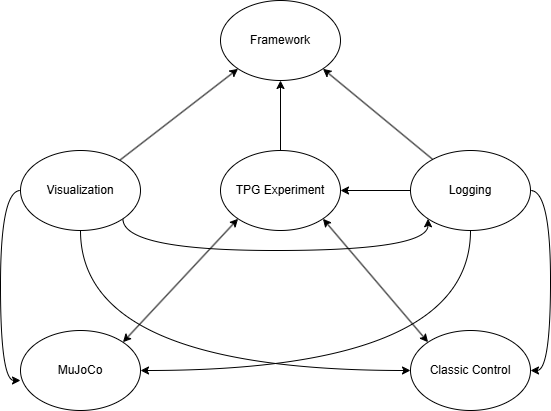
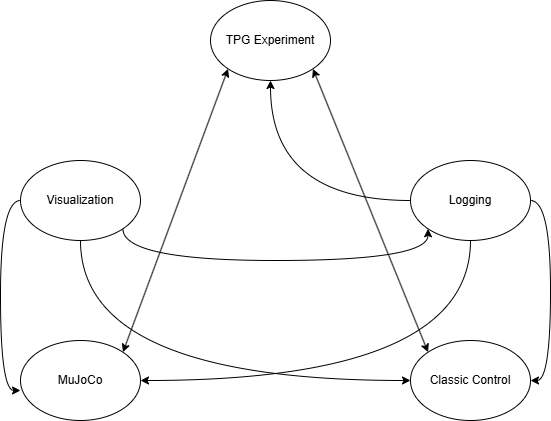
updated requirements trace matrix and use hiearchy diagram to remove framework module

diff --git a/docs/Design/SoftArchitecture/MG.tex b/docs/Design/SoftArchitecture/MG.tex
@@ -231,13 +231,6 @@ The design of the system is intended to satisfy the requirements developed in
 the SRS. In this stage, the system is decomposed into modules. The connection
 between requirements and modules is listed in Table~\ref{TblRT}.
 
-% \wss{The intention of this section is to document decisions that are made
-%   ``between'' the requirements and the design.  To satisfy some requirements,
-%   design decisions need to be made.  Rather than make these decisions implicit,
-%   they are explicitly recorded here.  For instance, if a program has security
-%   requirements, a specific design decision may be made to satisfy those
-%   requirements with a password.}
-
 \section{Module Decomposition} \label{SecMD}
 
 Modules are decomposed according to the principle of ``information hiding''
@@ -350,13 +343,13 @@ requirements and between the modules and the anticipated changes.
 \toprule
 \textbf{Req.} & \textbf{Modules}\\
 \midrule
-FR-1 & \mref{mMuJoCo}, \mref{mFramework}\\
-FR-2 & \mref{mVisualization},\\
-FR-3 & \mref{mLogging}, \mref{mFramework}\\
-FR-4 & \mref{mLogging}, \mref{mFramework}\\
-FR-5 & \mref{mLogging}, \mref{mFramework}, \mref{mControl}\\
-FR-6 & \mref{mClassicControl}, \mref{mMuJoCo}, \mref{mVisualization}, \mref{mLogging}, \mref{mExperiment}, \mref{mFramework}\\
-FR-7 & \mref{mLogging}, \mref{mFramework}\\
+FR-1 & \mref{mMuJoCo}\\
+FR-2 & \mref{mVisualization}\\
+FR-3 & \mref{mLogging}\\
+FR-4 & \mref{mHH}, \mref{mLogging}, \mref{mExperiment}\\
+FR-5 & \mref{mClassicControl}, \mref{mMuJoCo}, \mref{mLogging}, \mref{mExperiment}\\
+FR-6 & \mref{mClassicControl}, \mref{mMuJoCo}, \mref{mVisualization}, \mref{mLogging}, \mref{mExperiment}\\
+FR-7 & \mref{mLogging}, \mref{mExperiment}\\
 FR-8 & \mref{mClassicControl}, \mref{mMuJoCo}, \mref{mVisualization}\\
 \bottomrule
 \end{tabular}
